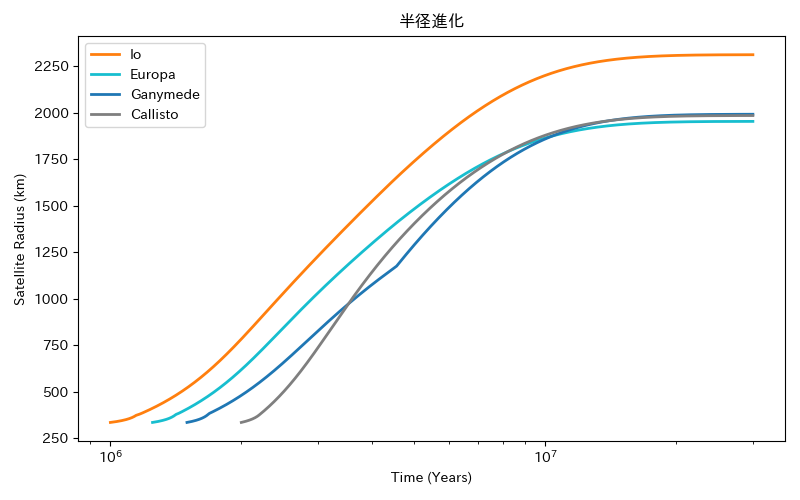
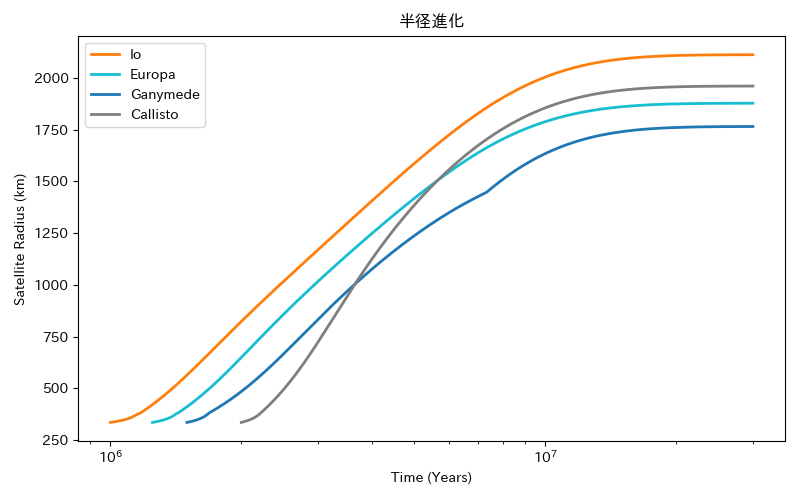
gallilean_central_flax.pyにスノーラインの位置の変化を追加

diff --git a/gallilean_central_flax.py b/gallilean_central_flax.py
@@ -96,13 +96,22 @@ def calculate_disk_structure(M_cp_kg, M_dot_g_kg_s, r, alpha, r_gg, L_cp, q_gues
 
         #  太陽からの輻射エネルギーフラックス (F_sun)
         F_sun = sigma_sb * T_bg**4
-        
-        # 面密度とオパシティ
+
+        # 面密度とガス圧力の計算
         Sigma_g = (M_dot_g_kg_s * Omega_K) / (3.0 * np.pi * alpha * c_s**2)
-        if T_d >= 160.0:
-            kappa = 450.0 * r_gg
+        rho_g = Sigma_g / (np.sqrt(2.0 * np.pi) * H_g)
+        P_gas = rho_g * c_s**2
+
+        # --- 追加: クラウジウス・クラペイロン式による動的スノーライン計算 ---
+        X_H2O = 1.7e-4  # 水のモル分率 (Shibaike et al. 2019準拠)
+        P_H2O = max(X_H2O * P_gas, 1e-20)  # ゼロ割り防止
+        T_snow = 6070.0 / (30.86 - np.log(P_H2O))
+
+        # オパシティ
+        if T_d < T_snow:
+            kappa = 450.0 * (T_d / T_snow)**2 * r_gg  # 氷が存在する領域
         else:
-            kappa = 450.0 * (T_d / 160.0)**2 * r_gg
+            kappa = 450.0 * r_gg                      # 岩石のみの領域
             
         tau = kappa * Sigma_g
         tau = max(tau, 1e-10)
@@ -232,8 +241,18 @@ def calculate_st_p(p, q, M_dot_p, M_dot_g, alpha, T_d, M_cp_kg, r, eta):
     Omega_K = np.sqrt(G * M_cp_kg / r**3)
     eta_safe = max(abs(eta), 1e-15) # ゼロ割り回避
 
+    # --- 動的スノーラインの計算 ---
+    H_g_temp = c_s / Omega_K
+    Sigma_g_temp = (M_dot_g / Omega_K) / (3.0 * np.pi * alpha * c_s**2)
+    rho_g_temp = Sigma_g_temp / (np.sqrt(2.0 * np.pi) * H_g_temp)
+    P_gas_temp = rho_g_temp * c_s**2
+    
+    X_H2O = 1.7e-4
+    P_H2O = max(X_H2O * P_gas_temp, 1e-20)
+    T_snow = 6070.0 / (30.86 - np.log(P_H2O))
+
     # スノーラインを境に限界衝突速度(v_cr)を変更
-    if T_d >= 160.0:
+    if T_d >= T_snow:
         v_cr = 500.0   # 岩石ペブルの破壊速度 (cm/s)
     else:
         v_cr = 5000.0  # 氷ペブルの破壊速度 (cm/s)
@@ -527,6 +546,7 @@ fixed_history_Td = []
 fixed_history_T_visc = []
 fixed_history_T_irr = []
 fixed_history_T_sun = []
+fixed_history_T_snow = []
 
 history_disk_mass_t = []
 history_disk_mass = []
@@ -558,7 +578,7 @@ while t_year <= t_max_year:
     history_M_cp.append(M_cp_MJ)
     history_M_dot_g.append(M_dot_g_kg_s)
 
-# 指定した固定軌道における各温度成分を計算して記録
+    # 指定した固定軌道における各温度成分を計算して記録
     p_fix, q_fix = calculate_p_q(M_cp_kg, M_dot_g_kg_s, target_fixed_r, alpha, r_gg, L_cp)
     Td_fixed, Sigma_g_fixed = calculate_disk_structure(M_cp_kg, M_dot_g_kg_s, target_fixed_r, alpha, r_gg, L_cp, q_guess=q_fix)
     
@@ -573,14 +593,28 @@ while t_year <= t_max_year:
     F_in_fixed = 0.5 * (L_cp / (4.0 * np.pi * target_fixed_r**2)) * derivative_term
     T_irr_val = (max(F_in_fixed, 0) / sigma_sb)**0.25
     
-    # ③ 摩擦熱 (T_visc): 全体の4乗から他の2つの4乗を引き算して逆算
+    # ③ 摩擦熱 (T_visc)
     T_visc_val = max(Td_fixed**4 - T_irr_val**4 - T_sun_val**4, 0.0)**0.25
+
+    # ④ スノーラインの温度（T_snow）
+    # まず空間密度(rho_g)とMKS単位系のガス圧(Pa)を計算
+    rho_g_fixed = Sigma_g_fixed / (np.sqrt(2.0 * np.pi) * H_g_fixed)
+    P_gas_fixed = rho_g_fixed * c_s_fixed**2
+    
+    # 単位を MKS(Pa) から CGS(dyn/cm^2) に変換
+    P_gas_cgs = P_gas_fixed * 10.0  
+    
+    # 動的スノーラインの計算 (Shibaike et al. 2019 に準拠したモル分率)
+    X_H2O = 1.7e-4
+    P_H2O_cgs = max(X_H2O * P_gas_cgs, 1e-20)
+    T_snow_val = 6141.0 / (31.4 - np.log(P_H2O_cgs))
 
     fixed_history_t.append(t_year)
     fixed_history_Td.append(Td_fixed)
     fixed_history_T_visc.append(T_visc_val)
     fixed_history_T_irr.append(T_irr_val)
     fixed_history_T_sun.append(T_sun_val)
+    fixed_history_T_snow.append(T_snow_val)
 
     # すでに捕獲済みの衛星を抽出し、軌道が「外側」の順に並び替え
     active_sats = [sat for sat in satellites if t_year >= sat.t_cap]
@@ -1112,4 +1146,21 @@ plt.axhline(y=101325, color='gray', linestyle='--', linewidth=1, label='1 atm (E
 plt.legend(bbox_to_anchor=(1.05, 1), loc='upper left', borderaxespad=0.)
 plt.tight_layout()
 plt.savefig("surface_pressure_evolution_central_flux.png")
+plt.close()
+
+# ---固定軌道でのスノーラインの変化---
+plt.figure(figsize=(8, 5))
+
+plt.plot(fixed_history_t, fixed_history_Td, label=r"Disk Temperature (\(T_d\))", color="red", linewidth=2)
+plt.plot(fixed_history_t, fixed_history_T_snow, label=r"Snowline Temperature (\(T_{snow}\))", color="blue", linestyle="--", linewidth=2)
+
+plt.xlabel("Time [years]", fontsize=14)
+plt.ylabel("Temperature [K]", fontsize=14)
+plt.title("Evolution of Temperatures at Fixed Orbit", fontsize=16)
+plt.xscale("log") 
+plt.legend(fontsize=12)
+plt.grid(True, which="both", linestyle=":", alpha=0.7)
+
+plt.tight_layout()
+plt.savefig("snowline_central_flux.png")
 plt.close()
